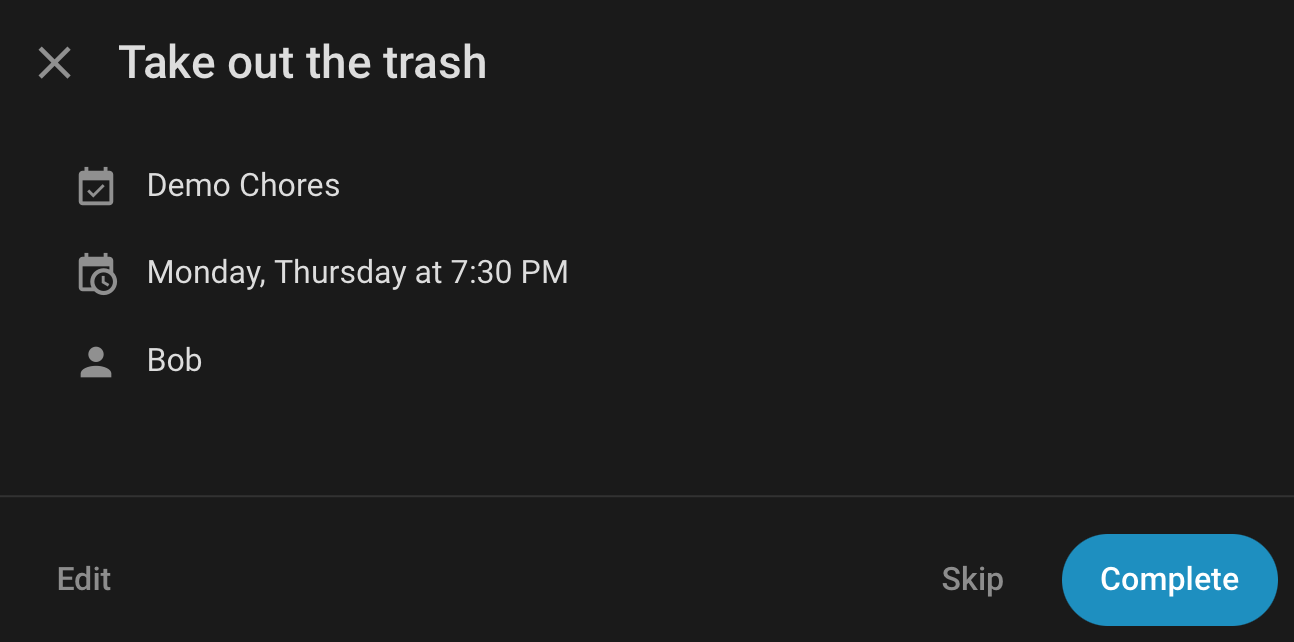
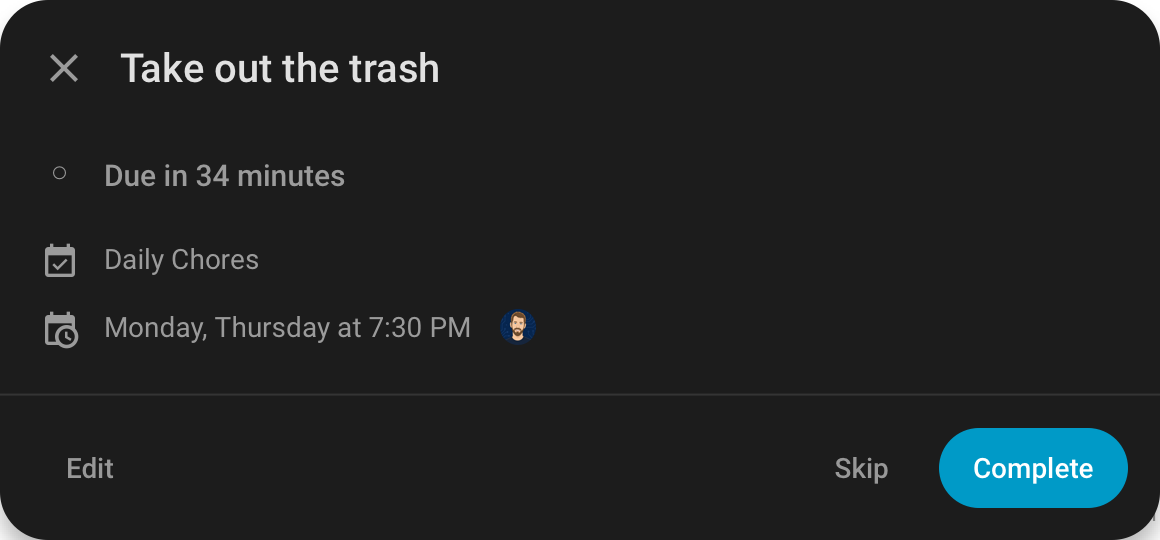
docs: tighten README wording and fix attribute table and stale skip claims
updated card detail image for new layout

diff --git a/README.md b/README.md
@@ -1,6 +1,6 @@
 # <img src="custom_components/chore_calendar/brand/icon.png" alt="" height="42" valign="top"> Chore Calendar
 
-A Home Assistant custom integration for managing recurring household chores. Each chore list is added through Settings > Integrations, with chores managed via service calls. Provides per-chore sensor entities, a per-list calendar entity, and a per-list todo entity.
+A Home Assistant custom integration for managing recurring household chores. Each chore list is added through Settings > Integrations. Chores are managed from the included dashboard card, or via services for automations. Provides per-chore sensor entities, a per-list calendar entity, and a per-list todo entity.
 
 ![A standard Home Assistant calendar card and the included Chore Calendar card side by side, showing the same chores in both views.](docs/images/dashboard.png)
 
@@ -11,11 +11,10 @@ A Home Assistant custom integration for managing recurring household chores. Eac
 - **Sensor entities**: One sensor per chore tracking its current status and attributes, for custom dashboards and automations
 - **Custom Lovelace card**: Timeline card with per-entity filtering, colors, a detail dialog, create/edit/delete dialogs, and configurable actions
 - **Tag scan auto-completion**: Assign HA tags to chores for scan-to-complete. Shared tags resolve to the correct chore based on completion windows
-- **Service-driven management**: Create, update, delete, and complete chores via service calls
+- **Services**: Create, update, delete, complete, and skip chores from automations and scripts
 - **Flexible scheduling**: Calendar-grid recurrence (daily, weekly, monthly, or yearly with weekday ordinals, month days, season windows, and end conditions), interval-based ("after N hours/days/months"), and oneshot (one-time tasks with optional due date) chore types
 - **Skip occurrences**: Skip the current occurrence or defer until a later datetime, without touching completion history
 - **Status events**: Fires events on chore created, status change, and chore deleted for use in automations
-- **Persistent storage**: Chore data is stored locally, the same as local calendar and local todo
 
 ## Quick Start
 
@@ -81,9 +80,9 @@ Chores share a four-status cycle. The [chore types](#chore-types) differ in how 
 | `pending` | Actionable but not yet due. Also reported by an unscheduled chore (no due date set yet). |
 | `due` | The chore is due now and waiting to be completed |
 | `overdue` | The grace period has passed without completion |
-| `completed` | The chore has been completed for the current period |
+| `completed` | The chore has been completed for the current occurrence |
 
-Newly created chores start in `pending` and progress through the cycle from there. Once `overdue`, the chore stays pinned to its uncompleted period. The status and due date do not advance until the chore is completed.
+Newly created chores start in `pending` and progress through the cycle from there. Once `overdue`, the chore is **pinned**: it stays on its earliest uncompleted occurrence, and the status and due date do not advance until the chore is completed.
 
 ### Common Options
 
@@ -102,7 +101,7 @@ Duration values use the standard Home Assistant format: `hours: 3`, `days: 14`, 
 
 Set `pending_period: 0` to skip the `pending` state entirely, so the chore goes straight from `completed` to `due`. Useful for interval chores where an early window makes no sense (e.g. "every 90 days").
 
-A chore with no prior completion stays in `pending` until its first cycle becomes due. Once any completion is on record, the chore stays `completed` between cycles and re-enters `pending` when its next pending window opens. For oneshot chores, `pending_period` also sets the minimum forward leap needed to reactivate a completed chore via reschedule. A new `due_datetime` whose pending window starts at or before `last_completed` keeps the chore `completed`.
+A chore with no prior completion stays in `pending` until its first occurrence becomes due. Once any completion is on record, the chore stays `completed` between occurrences and re-enters `pending` when its next pending window opens.
 
 ### Common Attributes
 
@@ -112,14 +111,17 @@ The chore sensor's state is the chore's current status. Additional attributes ar
 | --- | --- |
 | `uid` | Stable UUID assigned at creation. Used as the `item` argument when targeting a specific chore via the calendar entity in service calls. |
 | `chore_type` | The chore type, set at creation by which sub-dict is passed. Changeable later by passing a different type's sub-dict to `update_item` (see [Convert Between Chore Types](#convert-between-chore-types)). |
-| `next_due` | When the chore is next due (ISO 8601). `null` for unscheduled chores. Stays pinned to the earliest uncompleted period while `overdue`. |
-| `missed_count` | Number of uncompleted occurrences whose grace period has lapsed, counted from the pinned period (or from `skipped_until` while a skip is active). Non-zero exactly when the chore is `overdue`. Counts up to one year of occurrences. |
-| `missed_occurrences` | The ten most recent missed occurrences (ISO 8601, oldest first). The earliest is always `next_due`. Excluded from recorder history. |
-| `upcoming_due` | Scheduled chores only: the first uncompleted occurrence that is not yet missed, so the one currently pending, due, or still ahead. Equals `next_due` when nothing is missed. `null` for interval and oneshot chores. |
-
-A single completion satisfies every missed occurrence and, when it lands inside the upcoming occurrence's pending window, that one too. Missed occurrences are context for deciding what to do, and completing once records one completion.
+| `next_due` | When the chore is next due (ISO 8601). `null` for unscheduled chores. Stays on the pinned occurrence while `overdue`. While a skip is active, the deferred datetime. |
+| `upcoming_due` | Scheduled chores only: the first uncompleted occurrence that is not yet missed. This is the occurrence currently pending, due, or still ahead. Equals `next_due` when nothing is missed. `null` for interval and oneshot chores. |
+| `missed_count` | Number of uncompleted occurrences whose grace period has lapsed. Non-zero exactly when the chore is `overdue`. |
+| `missed_occurrences` | The most recent missed occurrences (ISO 8601, oldest first). The earliest is always `next_due`. |
 | `last_completed` | When the chore was last completed (ISO 8601), or `null` if never completed. |
 | `last_completed_by` | The `person.*` entity that completed the chore, or `null`. Set via the optional `completed_by` parameter on `chore_calendar.complete_item`. Shown in the card detail dialog and included in status events. |
+| `trigger_entity` | The `tag.*` entity assigned to the chore, or `null`. See [Tag Triggers](#tag-triggers). |
+| `assigned_to` | List of `person.*` entities assigned to the chore. |
+| `schedule` | Human-readable description of the recurrence, as shown in the card (e.g. "Last Friday at 9:00 AM"). |
+
+A single completion satisfies every missed occurrence and, when it lands inside the upcoming occurrence's pending window, that one too. Missed occurrences are context for deciding what to do, and completing once records one completion. Missed occurrences are counted up to one year back, and `missed_occurrences` lists at most the ten most recent.
 
 ### Chore Types
 
@@ -142,20 +144,20 @@ Recur on a fixed calendar grid, with the same recurrence options as a calendar e
 | `bymonthday` | no | - | Days of the month (`15`, or `-1` for the last day). Monthly and yearly only |
 | `bysetpos` | no | - | Nth match of `byday` within the month (`-1` is last). Requires `byday`. Monthly and yearly only |
 | `bymonth` | no | - | Season window: only grid occurrences in these months (1 to 12) are valid |
-| `dtstart` | no | `08:00:00` | Time of day for every occurrence, or a full datetime to anchor the series phase when `interval` is above 1 |
+| `dtstart` | no | `08:00:00` | Time of day for every occurrence. Pass a full datetime when `interval` is above 1 to set which week (or month, or year) the series starts from |
 | `until` | no | - | The series ends after this date or datetime. Mutually exclusive with `count` |
-| `count` | no | - | Ends the series after this many **occurrences**. Grid points are spent as the calendar advances, so a skipped or missed occurrence still counts. Mutually exclusive with `until` |
+| `count` | no | - | Ends the series after this many **occurrences**. Every calendar occurrence counts, completed or not. Mutually exclusive with `until` |
 | `persist` | no | `false` | Keep the chore once the series ends. Otherwise `hide_completed_items` deletes it |
 
 The rule is stored as an RFC 5545 RRULE, and the calendar entity shows every future occurrence in the queried window.
 
-A never-completed scheduled chore pins to the first occurrence at or after its creation time. Creating a chore after today's occurrence pins to the next one, so the chore reads `pending`. If that first cycle is missed, the chore stays `overdue` until completed.
+A never-completed scheduled chore starts on the first occurrence at or after its creation time. Creating a chore after today's occurrence starts it on the next one, so the chore reads `pending`. If that first occurrence is missed, the chore stays `overdue` until completed.
 
 With `until` or `count`, completing (or skipping past) the final occurrence ends the series. The chore reports `completed` permanently and is swept by the next `hide_completed_items` call unless `persist` is set. Uncompleting the final completion, or updating the recurrence, reopens it.
 
 #### Interval Chores
 
-Recur a fixed period after the last completion.
+Recur a fixed interval after the last completion.
 
 | Option | Required | Default | Description |
 | --- | --- | --- | --- |
@@ -163,12 +165,12 @@ Recur a fixed period after the last completion.
 | `interval` | no | `1` | Recur **after** N units (`daily` with `5` means after 5 days, `monthly` with `3` means after 3 months) |
 | `bymonth` | no | - | Season window: the **after** clock only runs in these months. Out-of-season time does not count |
 | `until` | no | - | The series ends once the next due passes this. Mutually exclusive with `count` |
-| `count` | no | - | Ends the series after this many **occurrences**. An interval occurrence exists only once completed, so this equals this many completions. Mutually exclusive with `until` |
+| `count` | no | - | Ends the series after this many **completions**. Mutually exclusive with `until` |
 | `persist` | no | `false` | Keep the chore once the series ends. Otherwise `hide_completed_items` deletes it |
 
 Month and year intervals track the calendar: "after 3 months" from January 31 lands on April 30. With a season window, the interval clock only runs during the allowed months. A completion out of season starts the clock at the next season opening.
 
-A never-completed interval chore reports `pending` with no `next_due` until the first completion anchors the cycle.
+A never-completed interval chore reports `pending` with no `next_due` until the first completion starts the clock.
 
 #### Oneshot Chores
 
@@ -182,23 +184,23 @@ Non-recurring tasks with an optional due datetime. A oneshot has no built-in cad
 Behaviors specific to oneshot:
 
 - **Optional due date**: a oneshot created without `due_datetime` reports `pending` until a date is set or the chore is completed directly. Useful for ad-hoc todo-style items ("Buy milk") and "someday" tasks.
-- **Reschedule via update_item**: writing a new `due_datetime` to a completed oneshot reactivates it through the standard pending, due, and overdue cycle. Values within the pending window of `last_completed` keep the chore completed, which guards against accidental reactivation by past dates.
+- **Reschedule via update_item**: writing a new `due_datetime` to a completed oneshot reactivates it through the standard pending, due, and overdue cycle. A `due_datetime` whose pending window starts at or before `last_completed` keeps the chore `completed`, which guards against accidental reactivation by past dates.
 - **Skip default clears the date**: `skip_item` with no `until` on a oneshot clears `due_datetime`, and the chore enters the unscheduled pending state. Use `update_item` to reschedule. `skip_item` with an explicit `until` works the same as for scheduled and interval chores.
 
 ### Tag Triggers
 
 Assigning a `tag.*` entity to a chore enables NFC tap-to-complete. What a scan does depends on the chore type:
 
-- **Interval chores** are completed on every scan, even before the pending window opens, because the next due derives from the last completion. An active skip that falls after the reset clock is kept.
-- **Scheduled and oneshot chores** are completed only while they read `pending`, `due`, or `overdue`. A scan while the chore reads `completed`, including a skip-deferred chore, has no effect. A never-completed chore reads `pending` before its first window, so a scan records a completion, but that completion satisfies the first occurrence only if it lands inside the occurrence's window.
+- **Interval chores** are completed on every scan, even before the pending window opens, because the next due derives from the last completion.
+- **Scheduled and oneshot chores** are completed only while they read `pending`, `due`, or `overdue`. A scan while the chore reads `completed`, including a skip-deferred chore, has no effect. A never-completed chore reads `pending` before its first window. A scan then records a completion, but the first occurrence is only satisfied if the scan lands inside its window.
 
-A scan within one minute of the chore's last completion is treated as a repeat read of the same tap and ignored. If multiple chores share the same tag, each is evaluated independently.
+A scan follows the same rules as [Complete a Chore](#complete-a-chore), including how an active skip is handled. A scan within one minute of the chore's last completion is treated as a repeat read of the same tap and ignored. If multiple chores share the same tag, each is evaluated independently.
 
 When a chore is created with a `trigger_entity`, the tag's last-scanned timestamp seeds `last_completed`. This allows migration from an existing tag-based system without losing the most recent completion. The chore's initial status reflects the seeded `last_completed`, typically `completed` for a recently scanned tag, in place of the usual never-completed `pending`.
 
 ## Services
 
-Services are the primary method of managing `chore_calendar` entities.
+Services expose every chore operation to automations, scripts, and Developer Tools. The [dashboard card](#dashboard-card) covers everyday create, edit, complete, and skip actions without them.
 
 ### Add Chores
 
@@ -290,7 +292,7 @@ data:
 
 The service records the completion without checking the chore's window. Completing an interval chore early resets its clock from the new `last_completed`. Completing a scheduled chore before its pending window opens records the completion in history but does not satisfy the upcoming occurrence, which still comes due on schedule.
 
-An active skip is kept when it falls after the natural next due the completion produces, and cleared otherwise. See [Skip a Chore](#skip-a-chore). The `keep_skip` field is deprecated, has no effect, and will be removed in 1.0.0.
+An active [skip](#skip-a-chore) is kept when its date is later than the next due the completion produces, and cleared otherwise. Uncompleting restores the skip. The `keep_skip` field is deprecated, has no effect, and will be removed in 1.0.0.
 
 ### Skip a Chore
 
@@ -318,15 +320,9 @@ data:
 
 `until` works in both directions. A value *earlier* than the natural due pulls the occurrence forward ("do it tomorrow instead of Monday"), and re-skipping with a new value moves an existing skip. Skipping a chore whose `until` or `count` series has ended raises an error. Skipping past the final occurrence ends the series.
 
-To undo a skip, re-skip with a new `until`, or clear the item's due date from the [native todo card](#native-todo-card) to drop the override and return to the normal schedule.
+To undo a skip, re-skip with a new `until`, or clear the item's due date from the [native todo card](#native-todo-card) to return to the normal schedule.
 
-A skip is a floor on the next occurrence. Completing a skipped chore keeps the skip when `skipped_until` is later than the natural next due the completion produces, and clears it otherwise:
-
-- **Scheduled chores**: a completion before the skipped occurrence's pending window is history only, so the skip holds and the chore stays deferred. A completion inside that window satisfies the occurrence and clears the skip.
-- **Interval chores**: the completion resets the clock. The skip holds if it is later than `last_completed` plus the interval, and clears if the reset clock already lands past it.
-- **Oneshot chores**: completion ends the chore, so the skip always clears.
-
-Uncompleting that completion restores the prior skip state.
+Completing a skipped chore keeps or clears the skip as described in [Complete a Chore](#complete-a-chore).
 
 ### Uncomplete a Chore
 
@@ -345,11 +341,11 @@ data:
   item: "Morning Medicine"
 ```
 
-The resulting `chore_calendar_status_changed` event carries `source: uncomplete`, so automations can distinguish an undo from natural period transitions. See [Automation Events](#chore_calendar_status_changed) for the full source vocabulary.
+The resulting `chore_calendar_status_changed` event carries `source: uncomplete`, so automations can distinguish an undo from schedule-driven transitions. See [Automation Events](#chore_calendar_status_changed) for the full source vocabulary.
 
 ### Hide Completed Items
 
-Set a per-list cutoff for hiding completed items from the calendar and todo entities. Items completed *before* the cutoff are hidden, and their `last_completed` timestamps are preserved, so recurring chores still compute state correctly and the next cycle reappears naturally. Finished chores without `persist` (completed oneshots, and recurring chores whose `until` or `count` series has ended) are deleted from storage during this call, firing `chore_calendar_item_deleted` for each.
+Set a per-list cutoff for hiding completed items from the calendar and todo entities. Items completed *before* the cutoff are hidden, and their `last_completed` timestamps are preserved, so recurring chores still compute state correctly and the next occurrence reappears on schedule. Finished chores without `persist` (completed oneshots, and recurring chores whose `until` or `count` series has ended) are deleted from storage during this call, firing `chore_calendar_item_deleted` for each.
 
 ```yaml
 # Hide all completed items as of now
@@ -399,7 +395,7 @@ data:
     due_datetime: "2026-05-01T09:00:00-04:00"
 ```
 
-Conversion preserves the chore's identity (`uid`), name, description, tag trigger, assignees, and pending and grace windows. It rebuilds the schedule from the new selector and starts a **fresh cycle**. Completion history (`last_completed`, completion count) and any active skip are cleared, since neither carries meaning across schedule types. An interval chore, for example, anchors its next due on the last completion, so a stale timestamp would read as immediately overdue. Only one type sub-dict may be passed per call. Converting **to** a oneshot requires a `due_datetime` key, which may be `null` for an unscheduled oneshot.
+Conversion preserves the chore's identity (`uid`), name, description, tag trigger, assignees, and pending and grace windows. It rebuilds the schedule from the new sub-dict and starts fresh. Completion history (`last_completed`, completion count) and any active skip are cleared. Only one type sub-dict may be passed per call. Converting **to** a oneshot requires a `due_datetime` key, which may be `null` for an unscheduled oneshot.
 
 ### Delete a Chore
 
@@ -534,7 +530,7 @@ Tapping a chore row (default behavior) opens a detail dialog showing:
 - Last completed time, with the completer's avatar (if set, and the chore is not currently completed)
 - The chore's free-text description (if set)
 
-An "Edit" button in the dialog footer opens the create/edit dialog for the chore (hidden when `hide_edit_button` is set). Non-completed chores also get "Skip" and "Complete" buttons. Skip defers the chore using the type-specific default (see [Skip a Chore](#skip-a-chore)). Complete records the completion and clears any active skip. Completed chores get an "Uncomplete" button when `allow_uncomplete` is enabled. Uncompleting restores the skip that the completion cleared.
+An "Edit" button in the dialog footer opens the create/edit dialog for the chore (hidden when `hide_edit_button` is set). Non-completed chores also get "Skip" and "Complete" buttons, which call [`skip_item`](#skip-a-chore) and [`complete_item`](#complete-a-chore) with no options. Completed chores get an "Uncomplete" button when `allow_uncomplete` is enabled.
 
 Holding either status button (500ms) opens a dialog with the service's optional fields. A plain tap keeps the one-press behavior above.
 
@@ -551,13 +547,11 @@ The card manages chore definitions directly, so everyday changes need no service
 - **Edit**: the detail dialog's "Edit" button, or an `edit` [row action](#action-configuration), opens the same form pre-filled for the chore.
 - **Delete**: the edit dialog has a "Delete" button with an inline confirmation step.
 
-The form covers the common fields plus a **Type** toggle (Scheduled, Interval, or Oneshot) that drives per-type recurrence inputs mirroring HA's calendar repeat editor: frequency, an interval with a dynamic unit, weekday toggles, a computed monthly mode (day-of-month or Nth weekday) derived from the Start date, a Start date/time, the interval season window, the oneshot due date, and the `until` or `count` lifecycle with a persist toggle. The form also has pending and grace periods, the tag trigger, assignees, and a target-list dropdown (shown only when more than one list is configured).
-
-Changing the Type toggle on an existing chore converts it on save, using the same [cross-type conversion](#convert-between-chore-types) as `update_item`. Two advanced scheduled options, the season window (`bymonth`) and yearly day-of-month (`bymonthday`), are set via the service only. The edit form preserves any stored values for them through a save.
+The form covers the common options and a **Type** toggle (Scheduled, Interval, or Oneshot) with recurrence inputs that mirror HA's calendar repeat editor. Changing the Type on an existing chore converts it on save, using the same [cross-type conversion](#convert-between-chore-types) as `update_item`. Two scheduled options, the season window (`bymonth`) and yearly day-of-month (`bymonthday`), are set via the service only. The form preserves their stored values through a save.
 
 ### Visual Editor
 
-All options are configurable through the visual editor. Each entity is shown as a collapsible panel. Collapsed, it shows the entity name with a color dot. Expanded, it shows the entity picker, color picker, exclude statuses multi-select, and a remove button. Card-level options use toggle switches, number inputs, and action type dropdowns.
+All card options are configurable through the visual editor.
 
 ### Native Todo Card
 
@@ -598,14 +592,14 @@ data:
 
 | `source`     | When fired                                                                              |
 |--------------|-----------------------------------------------------------------------------------------|
-| `schedule`   | Coordinator tick crossed a threshold (natural progression).                             |
+| `schedule`   | Time passed and the chore crossed its pending, due, or grace threshold.                 |
 | `complete`   | `complete_item` service, or the todo item toggled to completed.                         |
 | `uncomplete` | `uncomplete_item` service, or the todo item toggled back to needs action.               |
 | `skip`       | `skip_item` service, or a todo item due-date edit (occurrence reschedule).              |
 | `update`     | `update_item` (or a todo rename or description edit) whose change altered the status.   |
-| `tag`        | `tag_scanned` listener auto-completion.                                                 |
+| `tag`        | Tag scan auto-completion.                                                               |
 
-A skip whose before and after status are both `completed` (e.g. an early-completed scheduled chore deferring its next cycle further) fires no event, because there is no transition. The `skipped_until` attribute on the chore's sensor is still observable via HA's standard `state_changed`.
+A skip whose before and after status are both `completed` (e.g. an early-completed scheduled chore deferring its next occurrence further) fires no event, because there is no transition. The deferred date is still visible as the sensor's `next_due` attribute via HA's standard `state_changed`.
 
 ### `chore_calendar_item_created`
 
@@ -623,7 +617,7 @@ data:
   assigned_to: ["person.alice"]
 ```
 
-`status` reflects the chore's state at creation. It is typically `pending`. A chore created with a `trigger_entity` whose tag was recently scanned reports `completed`, because the seeded `last_completed` timestamp lands inside the current cycle's pending window (see [Tag Triggers](#tag-triggers)).
+`status` reflects the chore's state at creation. It is typically `pending`. A chore created with a `trigger_entity` whose tag was recently scanned reports `completed`, because the seeded `last_completed` timestamp lands inside the current occurrence's pending window (see [Tag Triggers](#tag-triggers)).
 
 ### `chore_calendar_item_deleted`
 
